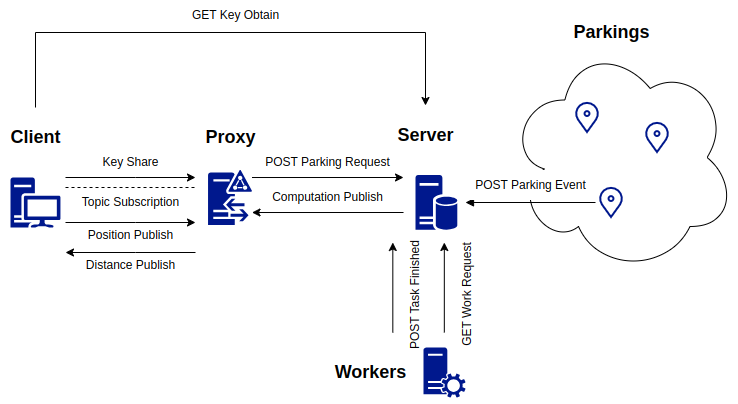
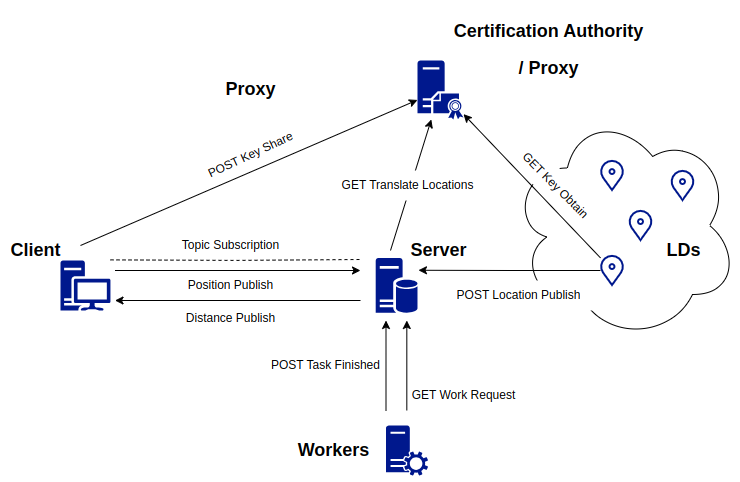
refactor with CA

diff --git a/tesi/tesi.tex b/tesi/tesi.tex
@@ -418,7 +418,7 @@ To deeply understand the system operations, let's first analyze the use case of 
 
 Even through it seems a simple and straightforward mechanism, if we want to move the operations to the server, in order to preserve computational resources on the client side, a lot of challenges aries. The first one is to securely share the position of the client with the server, without exposing it to the workers. The second challenge is to compute the distances between the positions of the clients and the parking spots, without revealing the positions of the clients to the workers. The third problem is not to leak sensible information about the clients, after the computation is finished.
 
-In this scenario, it's not enough to simply encrypt the positions of the clients, as the workers need to compute the distances between the positions of the clients and the parking spots, that are also encrypted with a different key. To resolve this problem, we could just leave the parking position cleartext on the database, but this would expose the parking spots to the workers, that could then leak the information for profit. In order to avoid this, and also achieve a full zero-knowledge protocol, we need to use a re-encryption mechanism, that allows the workers to compute the distances between the positions of the clients and the parking spots, without revealing the positions of the clients to the workers.
+In this scenario, it's not enough to simply encrypt the positions of the clients, as the workers need to compute the distances between the positions of the clients and the parking spots, that are also encrypted with a different key. To resolve this problem, we could just leave the parking position cleartext on the database, but this would expose the parking spots to the workers, that could then leak the information for profit. In order to avoid this, and also achieve a full privacy-oriented protocol, we need to use a re-encryption mechanism, that allows the workers to compute the distances between the positions of the clients and the parking spots, without revealing the positions of the clients to the workers.
 
 The distance problem is avoided by using the Z-order encoding, that allows us to reduce the problem of finding matching points into finding the maximum prefix of two bit strings. In our showcase, the simulated server will perform a simple encrypted subtraction between the positions of the clients and the parking spots to reveal if the two point are the same or not by checking if the result is zero. 
 
@@ -450,18 +450,14 @@ In our system, the clients responsibilies are very limited, as they do not trust
 \subsection{Server}
 The Backend Server (commonly called Information Broker) is the central component of the system, responsible for managing the communication between clients and sensors. It also acts like a database, handling and storing the encrypted parking spots data.
 
-This centralized component is crucial in the architecture, as it allows all sort of mobile actors (including clients and LDs) to have a persistent connection with the system, altough it's not enough if we want to achieve a full zero-knowledge protocol.
+This centralized component is crucial in the architecture, as it allows all sort of mobile actors (including clients and LDs) to have a persistent connection with the system, altough it's not enough if we want to achieve a full zero-trust protocol.
 
-\subsection{Proxy}
-The Proxy (Re-encryptor) is an intermediary component that facilitate the connection between clients and the server.
+Thanks to HE, the server can perform comuptation without knowing the cleartext positions of the other actors.
 
-It utilize the MQTT protocol to manage the comunication with the client. Moreover, it keeps alive the TCP connection with the client (that usually has a natted IP address) and the broker.
-This is accomplished by making the client subscribe to the connection topic, while the proxy publishes the updates to the server about the client requests.
-
-This approach allows the user to have a persistent connection, without the need to maintain a direct TCP connection with the server. The proxy is also responsible for managing the re-encryption of the data, ensuring that the server (and the workers) can compute the calculations on ciphertext encrypted with the right keys.
-
-\subsection{Certification Authority}
+\subsection{Certification Authority / Proxy}
 The certification authority (CA) is a trusted entity responsible for managing the public keys of the clients and the public/private keys of the parking spots. Because he is a trusted entity, the CA knows the private keys of the parking spots. Thus, it can generate the symmetric translation keys required for a secure computation of the client distances without revealing clear text positions.
+
+In our system, the CA also acts like a proxy re-encryptor\cite{POLYAKOV2017FastPRE}, as it is responsible for managing the right keys for the homomorphic operation made on the encrypted data. 
 
 \subsection{Worker}
 The name Worker refers to a generic computational unit of the system, that can handle tasks from the server, rewarded with a digital currency. In our case, the workers are responsible for computing the distances between the positions of the clients and the parking spots, using the homomorphic encryption scheme. 
@@ -471,16 +467,14 @@ The workers's digial reward can be described as a token, that allows them to req
 \section{Network Protocol and Communication}
 \subsection{MQTT}
 
-The MQTT protocol is used for the communication between the clients and the proxy. It's necesassry to use a pub/sub mechanism in order to keep alive the connection between the two entities. This is achived by having the client subscribe to a topic, while the proxy publishes updates to that topic.
+The MQTT protocol is used for the communication between the clients and the server. It's necesassry to use a pub/sub mechanism in order to keep alive the connection between the two entities. This is achived by having the client subscribe to a topic, while the proxy publishes updates to that topic.
 
-Moreover, the proxy is responsible for managing the connection with the broker, allowing the clients to receive updates on the parking spots. In this way, the client $MC_i$ \textbf{publishes} its position $Area_j$ to the topic $ID_{MC_i}$. The proxy then forwards the position to the broker, which stores the encrypted positions of the parking spots.
+Moreover, the server is responsible for managing the connection with the LDs, allowing the clients to receive updates on the parking spots. In this way, the client $MC_i$ \textbf{publishes} its position $Area_j$ to the topic $ID_{MC_i}$. The server can then apply the homomorphic operations on the data, using the keys provided by the CA.
 
 When the computation is finished, the broker publishes the results to the topic $ID_{MC_i}$, allowing the client to receive the updates on the parking spots. The client can then \textbf{subscribe} to the topic $ID_{MC_i}$ to receive updates on the parking spots.
 
 \subsection{HTTP}
-The HTTP protocol is used for all the traffic arriving and leaving the backend server. The server is responsible for managin the storage of the encrypted parking spots data, for handling the requests from the proxy(s) and managing the workers.
-
-Beacause the backend server acts also as a database, it is responsible for storing the encrypted positions of the parking spots, and for managing the requests from the clients. Thus, it provides an HTTP API for the clients to interact with the system. 
+The HTTP protocol is used for the communication between the CA and the other entities of the system. Because the CA performs atomic actions, such as key generation and translation, it is necessary to use a request-response protocol to ensure that the operations are performed in a secure and reliable way.
 
 %\newpage
 
@@ -494,7 +488,7 @@ The system is designed to allow the following operations:
 \hline
 \textbf{API} & \textbf{Subject} & \textbf{Protocol} & \textbf{Receiver} & \textbf{Payload} \\ \hline
 
-Key Obtain & CA / Proxy & HTTP GET & LDs & $\{id: ID_{park_j}\}$ \\ \hline
+Key Obtain & LDs & HTTP GET & CA / Proxy & $\{id: ID_{park_j}\}$ \\ \hline
 
 Key Share & Client & HTTP POST & CA / Proxy & $\{id: ID_{mc},\ \text{pub. key: } k_{mc}^+\}$ \\ \hline
 
@@ -532,16 +526,15 @@ We can summarize the protocol flow in the following steps:
 
 \subsection{Protocol Flow}
 \begin{enumerate}
-    \item The mobile client $MC_i$ generates a new public/private key pair $(k_{mc_i}^+, k_{mc_i}^-)$ and sends the public key to the certification authority (CA) using the \textbf{New Client} API via an HTTP POST request. 
-    \item After the CA verifies the client, it generates a symmetric key $k_{mc_i, park_j}$ for each parking spot $park_j$. The operation of key generation is performed by \emph{Key Translation}$(pp, k_{mc_i}^+, k_{park_j}^-)$, where $pp$ is the public parameters of the system, $k_{mc_i}^+$ is the public key of the client, and $k_{park_j}^-$ is the private key of the parking spot.
-    % TOCHECK next
-    \item The client $MC_i$ then publishes its encrypted position $\xi_{mc}(P_i)$ to the MQTT topic $ID_{MC_i}$ using the \textbf{Position Publish} API. \emph{(API: \texttt{Position Publish}, Payload: $\{position: \xi_{mc}(P_i)\}$)}
-    \item The proxy subscribes to the topic, receives the encrypted position, and re-encrypts it for each parking spot using the associated key $k_{mc_i, park_j}$, creating the re-encrypted blob $[\forall j \in \text{P},\ \xi_{mc_i, park_j}(P_i)]$. It then invokes the \textbf{Parking Request} API via MQTT to publish this to the backend. \emph{(API: \texttt{Parking Request}, Payload: $\{proxy: p_i,\ positions: [\ldots]\}$)}
-    \item Each local data source (LDS) publishes its own position $\xi_{park_j}(P_j)$ and occupancy status via the \textbf{Parking Publish} API using an HTTP POST request to the backend. \emph{(API: \texttt{Parking Publish}, Payload: $\{\xi_{park_j}(P_j),\ status\}$)}
-    \item The backend, upon receiving new position updates, issues a \textbf{Work Request} to available workers via HTTP POST, initiating the task computation. \emph{(API: \texttt{Work Request}, Payload: none)}
-    \item Once the workers compute the distances (or other metrics) between client and parking spots, they send the result back using the \textbf{Task Finish} API. \emph{(API: \texttt{Task Finish}, Payload: $\{worker: w_i,\ task: t_j,\ result: \xi_{mc_i, park_j}(R)\}$)}
-    \item The backend then publishes the aggregated results to the proxy via MQTT using the \textbf{Computation Resoult} API. \emph{(API: \texttt{Computation Resoult}, Payload: $\{proxy: p_i,\ resoult: [\ldots]\}$)}
-    \item Finally, the proxy receives the re-encrypted results, decrypts them using the shared keys, and delivers them to the mobile client $MC_i$.
+    \item The mobile client $MC_i$ generates a new public/private key pair $(k_{mc_i}^+, k_{mc_i}^-)$ and sends the public key to the certification authority (CA) using the \textbf{Key Share} API via an HTTP POST request. \emph{(API: \texttt{Key Share}, Payload: $\{id: ID_{mc_i},\ k_{mc_i}^+\}$)}
+    \item After the CA verifies the client, it generates a symmetric key $k_{mc_i, park_j}$ for each parking spot $park_j$. The operation of key generation is performed by \emph{Key Translation}$(pp, k_{mc_i}^+, k_{park_j}^-)$, where $pp$ is the public parameters of the system, $k_{mc_i}^+$ is the public key of the client, and $k_{park_j}^-$ is the private key of the parking spot. Note that the trasnlation operation must be done each time a new parking spot is added to the system.
+    \item The $MC_i$ establish a MQTT connection with the server and subscribes to the topic $ID_{MC_i}$, which is used to receive updates on the parking spots. This is done using the \textbf{Topic Subscription} API via MQTT. \emph{(API: \texttt{Topic Subscription}, Payload: $\{topics: [position, distance]\}$)}
+    \item The client will then send the encrypted position $\xi_{mc}(P_i)$ to the server, where $P_i$ is the encoded position of the client. The encryption is done using the public key $k_{mc_i}^+$, ensuring that only the client can decrypt the position. This is done using the \textbf{Position Publish} API via MQTT. \emph{(API: \texttt{Position Publish}, Payload: $\{position: \xi_{mc}(P_i)\}$)}
+    \item The server receives the location and start the translation process, by invoking the \textbf{Translate Locations} API via HTTP GET request to the CA. The CA then re-encrypts the position for each parking spot using the associated key $k_{park_j \to mc_i}$, creating the re-encrypted blob $[\forall j \in \text{P},\ \xi_{mc_i}(P_j)]$. \emph{(API: \texttt{Translate Locations}, Payload: $\{positions: [\xi_{park_j}(P_j)]\}$)}
+    \item The server will then spread the re-encrypted positions to the workers, by invoking the \textbf{Work Request} API via HTTP GET request. The workers will then compute the distances between the client position and the parking spots, using the re-encrypted positions. \emph{(API: \texttt{Work Request}, Payload: none)}
+    \item Once the workers compute the distances (or other metrics) between client and parking spots, they send the result back using the \textbf{Task Finished} API via HTTP POST request. The result is a re-encrypted blob containing the distances between the client position and the parking spots. \emph{(API: \texttt{Task Finished}, Payload: $\{worker: w_i,\ task: t_j,\ result: \xi_{park_j \to mc_i}(R)\}$)}
+    \item The server then publishes the aggregated results to the client via MQTT using the \textbf{Distance Publish} API. The payload contains the distances between the client position and the parking spots, re-encrypted with the client's public key. \emph{(API: \texttt{Distance Publish}, Payload: $\{distances: [\forall j \in P,\ \xi_{mc_i}(R)]\}$)}
+    \item Finally, the client receives the re-encrypted results, decrypts them using its private key $k_{mc_i}^-$, checks weather the location satisfies the area matching condition.
 \end{enumerate}
 
 \section{Security Considerations}
@@ -555,6 +548,43 @@ This showcased that HE is secure if and only if the encryption and decryption op
 Another really serious isssue with the Genova's protocol is that that there's no way to ensure that the user is really itself. Moreover, if an attacker is able to read the network traffic, he could easily impersonate the client and send fake position updates to the server, or even worse, apply the previous described attack.
 
 In my own implementation, I addressed those issues by introducing different techniques from the state of the art, such as using a proxy re-encryptor and a position encoding mechanism based on Z-order. The choice of leaving the the decryption operation to the client ensures that no one is able to read the sensitive data, despite an increase of computational resources required to re-encrypt each position for each parking spot.
+
+\subsection{Threat Model}
+
+In this section, we will analyze the threat model of the system, identifying the potential attackers and their capabilities. 
+
+One of the assumptions of the system is that the CA is a trusted entity, moreover if an attacker is able to compromise the CA, he can also compromise the whole system. 
+
+\subsection{Mitigation Strategies Against Attacks}
+
+\begin{table}[h]
+\renewcommand{\arraystretch}{1.3}
+\small
+\begin{tabularx}{\linewidth}{|l|X|X|}
+\hline
+\textbf{Adversary} & \textbf{Goal / Attack} & \textbf{Mitigation Strategy} \\ \hline
+
+Malicious Client &
+Impersonate another client or send fake position updates. &
+Use digital signatures: at the time of authentication with the CA the client signs a digital contract that ensures that he is the one trying to access the system. \\ \hline
+
+Malicious Worker &
+Manipulate computation results or leak client-sensitive data. &
+Because the user has no way of finding out if an information has been manipulated during homomorphic phase, the server need to implement a mechanism of \emph{fake workload} to test workers reliability. \\ \hline
+
+Malicious Server &
+Access or manipulate sensitive client data or computational outcomes. &
+Because the server could only drop the communication or modify packets, but not leak sensitive informations. \\ \hline
+
+Network Attacker &
+Intercept and read client-sensitive data from network traffic. &
+All the traffic is HE ciphered. \\ \hline
+
+\end{tabularx}
+\caption{Adversarial Threats and Mitigation Strategies}
+\label{table:adversaries}
+\end{table}
+
 
 \chapter{Testing}
 \section{Testing Methodology}
